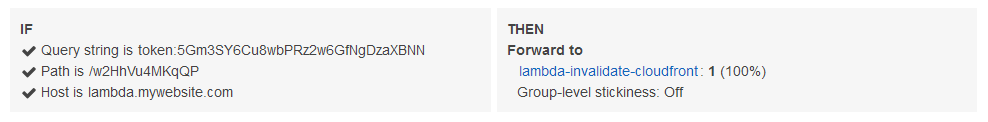
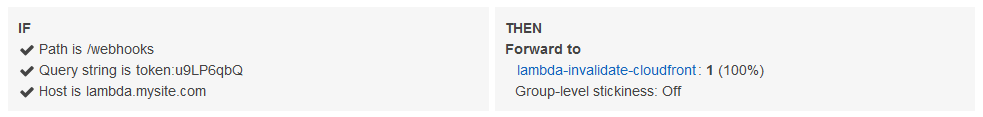
Update ALB article and bump versions.

diff --git a/src/styles/main.css b/src/styles/main.css
@@ -100,6 +100,10 @@ article ul > li {
   @apply my-8;
 }
 
+article a:hover.gatsby-resp-image-link {
+  @apply border-0;
+}
+
 /* Prism Dracula start */
 code[class*="language-"],
 pre[class*="language-"] {

diff --git a/content/posts/lambda-invalidate.md b/content/posts/lambda-invalidate.md
@@ -7,25 +7,25 @@ imageFluid:  "../images/aircraft-clouds.jpg"
 tags: ["AWS"]
 ---
 
-The other day I was moving on of my friend's static website over to Netlify. It's a pretty simple Hugo site. Only a handful of pages and images. What makes his page unique is the hundreds of large PDF files that he hosts.
+The other day I was moving a friend's static website over to Netlify. His site is a simple static site with only a handful of pages and images. What makes his page unique is the hundreds of large PDF files that he hosts.
 
-Initially, I looked into putting the big files in Git LFS, since Netlify started supporting it. Unfortunately, I quickly hit the storage limit of my GitHub account and didn't really feel like paying the extra $5/month to increase it, just for this one site. 
+Initially, I looked into storing the large PDF files in [Git LFS](https://git-lfs.github.com/). Both Netlify and GitHub support it. Unfortunately, I quickly hit the storage limit of my GitHub account and I didn't feel like paying to increase it, just for this one site.
 
-## Netlify/AWS hybrid solution
+I rolled up a tidy Netlify/AWS hybrid solution. Netlify builds his site with Hugo, while the PDFs reside safely in S3. CloudFront sits in front using Netlify as the default origin, and an S3 origin for the content under `/pdf`.
 
-I wanted the nice automation of Netlify but also the benefits of S3 for the huge files. So, I rolled up a Netlify/AWS hybrid solution. Netlify builds his site with Hugo, and the PDFs reside in S3. CloudFront sits in front of both of them. Netlify as the default origin, and all content under /pdf uses a secondary S3 origin.
+This solves the problem of storage. I keep the simple CI/CD automation of Netlify but also the benefits of S3 for the PDF files. Dead simple automation and cheap, durable storage of the big files.
 
-The hybrid setup works great. Dead simple automation and cheap, durable storage of the big files. 
+Yet, there is another problem. What if we update the site content files and Netlify does a deploy? How will CloudFront know there is new content? We need to somehow send an invalidation request to CloudFront after each Netlify deploy.
 
-Yet, there is a problem. What if we update the site content files? How will CloudFront know? We need to send an invalidation request to CloudFront every time Netlify does a deploy. I decided to create my own webhook, a listener which Netlify can post to after every deploy. 
+I decided to create my own webhook.
 
-I created a Lambda function in Python and added it to my Application Load Balancer. 
+## AWS Webhook Recipe
 
-## IAM role
+The webhook is simply a listener on my Application Load Balancer (ALB) that points to a Lambda function. I have a subdomain set up in Route53 and point it at the ALB. The ALB listens for that host, and specific query strings, then forwards it to the Lambda. The Lambda runs some Python code to create a CloudFront invalidation
 
-The first thing to do was create an IAM role for my Lambda with very basic permissions; the only thing it needs to do is create an invalidation request.
+### IAM role
 
-I created this inline IAM role:
+Before creating the Lambda function, I created an IAM role with very basic permissions. The role needs permission to create a CloudFront invalidation request, and that is all.
 
 ```json
 {
@@ -41,17 +41,21 @@ I created this inline IAM role:
 }
 ```
 
-## Lambda function
+### Lambda function
 
-Next I had to create my Lambda function. I wanted a function I could reuse, such as with other distributions, so in the example below I'm telling it to look for a query string parameter `dist_id`, which corresponds to the a distribution ID.
+Next I created a simple Lambda function. The function should simply create an invalidation request and provide a 200 status code to Netlify, signaling that the webhook succeeded.
 
-I'm also invalidating all the paths in the site with `/*` which is fine for small sites. You might need to create a more complex dictionary for the paths, if your needs demand it. CloudFront needs a unique `CallerReference` so we just use the current time.
+I wanted a function I could reuse, such as with other distributions, so we tell the Lambda to look for a query string parameter `dist`. This parameter  corresponds to a distribution ID.
 
-Finally, Netlify requires webhooks to send back a response code (other than 4xx or 5xx), so we have the load balancer return a JSON response.
+Then, we invalidate all paths in the site with `/*`. This is fine for small sites. However, your needs might require something more complex, such as a dictionary with multiple paths. CloudFront also needs a unique `CallerReference` so we just use the current time.
+
+Finally, we send a JSON response back to the ALB. Netlify requires webhooks to send back a response code (anything other than 4xx or 5xx), otherwise it automatically disables the webhook.
 
 ```python
-import json
+# lambda_function.py
+
 import boto3
+import json
 import time
 
 
@@ -77,20 +81,24 @@ def lambda_handler(event, context):
 
 ```
 
-## Application Load Balancer
+### ALB Setup
 
-Inside my ALB, I created a target group that points at my Lambda, then created a listener rule that watches for a path I made up, and a querystring containg a token. I made the path and token somewhat random but you can go crazy with it. This is to give myself just a little more security.
+Inside my ALB, I created a target group that points at my Lambda.
 
-Here's an example of how the listener might look (I made up these values for this example).
+![Load Balancer Target Group](../images/alb-example-0.png)
 
-![](../images/alb-example-1.png)
+Then I created a listener that watches for a path, and a querystring with a key of `token` and a random value. The value is somewhat random to give myself a little more security.
+
+Here's an example of how the listener might look:
+
+![Load Balancer Rule](../images/alb-example-1.png)
 
 ## Conclusion
 
-You can put together a URL that looks like this:
+Now I can put together a URL that looks like this:
 
-```
-https://lambda.mysite.com/w2HhVu4MKqQP?dist_id=EWR32F5MCGOV3&token=5Gm3SY6...
+```text
+https://lambda.mysite.com/webhooks?dist_id=EWR32F5MCGOV3&token=U9Lp6...
 ```
 
-And plop that into your Netlify deploy configuration. Your site will automatically trigger a CloudFront invalidation on every new deploy.
+And plop it into my Netlify deploy configuration. When the deploy succeds, Netlify sends a POST request to the URL. The load balancer triggers the Lambda function and CloudFront begins its invaldiation. This solved the problem of getting Netlify and CloudFront to communicate! Very cool.
